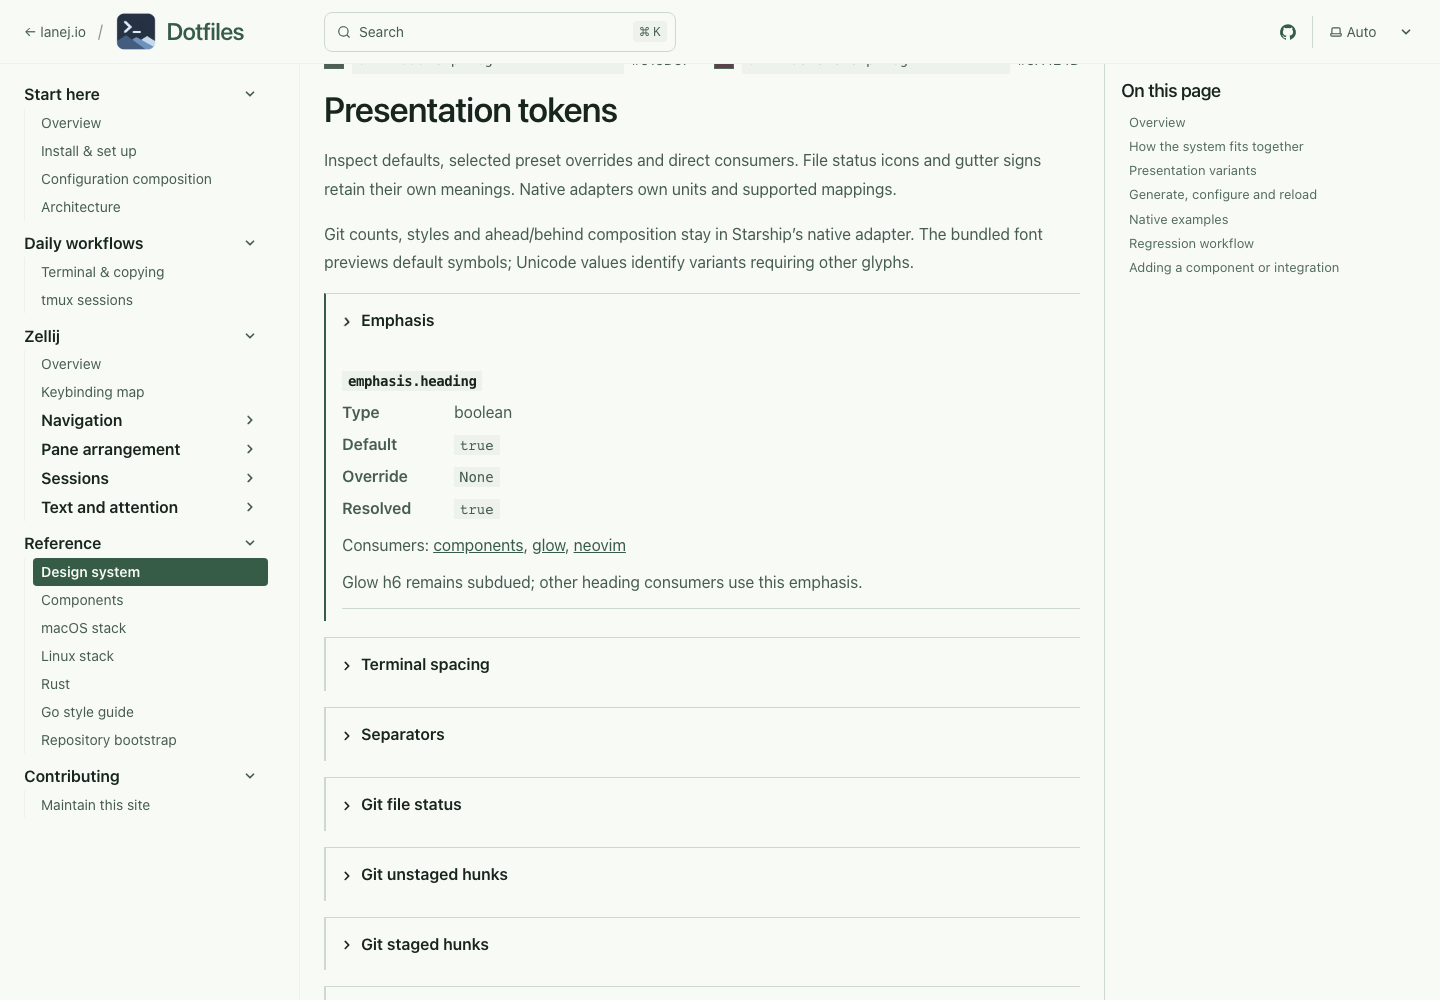
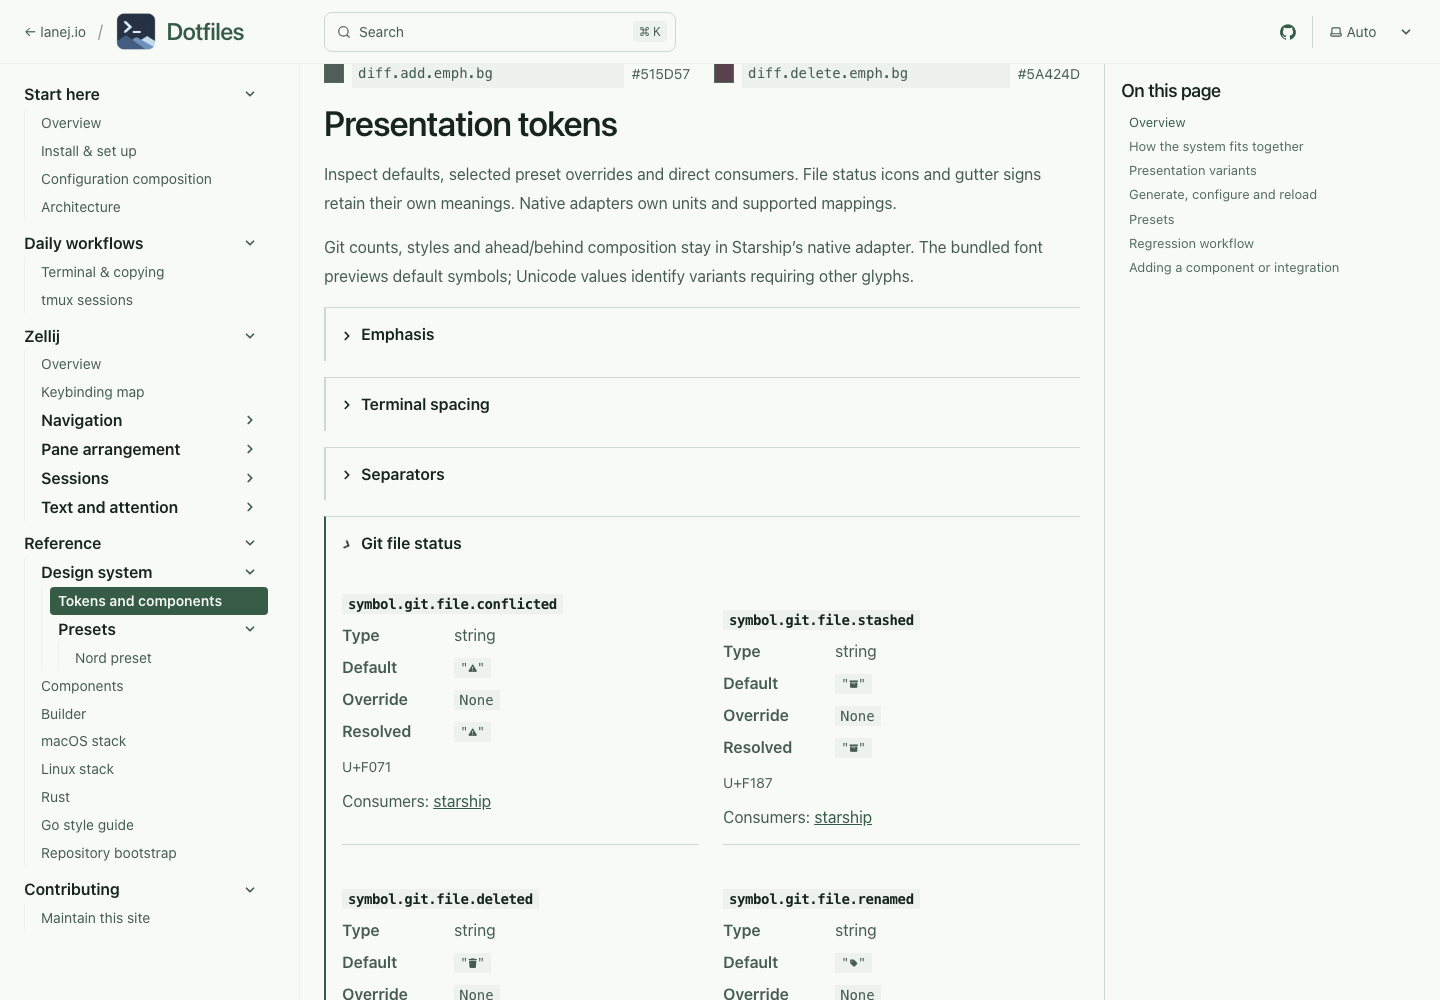
docs(theme): categorize Nord as a preset

diff --git a/website/tests/theme.spec.ts b/website/tests/theme.spec.ts
@@ -23,12 +23,6 @@ test('inspect native theme examples and follow atomic composition', async ({ pag
   await expect(page).toHaveURL(/#component-status$/);
   await expect(page.locator('#component-status').getByRole('link', { name: 'metadata-row', exact: true })).toBeVisible();
   await expect(page.locator('#integration-external-color-owners')).toContainText('interactive audits');
-  const examples = page.locator('main img');
-  await expect(examples).toHaveCount(7);
-  for (const example of await examples.all()) {
-    await example.scrollIntoViewIfNeeded();
-    await expect.poll(() => example.evaluate((image: HTMLImageElement) => image.naturalWidth)).toBeGreaterThan(0);
-  }
   await page.setViewportSize({ width: 390, height: 844 });
   await gitToken.scrollIntoViewIfNeeded();
   expect(await page.evaluate(() => document.documentElement.scrollWidth <= window.innerWidth)).toBe(true);
@@ -37,4 +31,22 @@ test('inspect native theme examples and follow atomic composition', async ({ pag
   const source = page.locator('#component-status .sources a');
   await source.focus();
   await expect(source).toBeFocused();
+});
+
+test('Nord is documented as a preset with its own palette and native captures', async ({ page }) => {
+  await page.goto('./design-system/');
+  await page.getByRole('link', { name: 'Nord preset', exact: true }).first().click();
+  await expect(page).toHaveURL(/\/design-system\/nord\/$/);
+  await expect(page.getByRole('heading', { name: 'Nord preset', exact: true })).toBeVisible();
+  await expect(page.locator('#preset-palette')).toBeVisible();
+  const examples = page.locator('main img');
+  await expect(examples).toHaveCount(7);
+  for (const example of await examples.all()) {
+    await example.scrollIntoViewIfNeeded();
+    await expect.poll(() => example.evaluate((image: HTMLImageElement) => image.naturalWidth)).toBeGreaterThan(0);
+    await expect(example).toHaveAttribute('src', /\/presets\/nord\//);
+  }
+  await page.setViewportSize({ width: 390, height: 844 });
+  await page.locator('#preset-palette').scrollIntoViewIfNeeded();
+  expect(await page.evaluate(() => document.documentElement.scrollWidth <= window.innerWidth)).toBe(true);
 });

diff --git a/scripts/test-theme-native.py b/scripts/test-theme-native.py
@@ -303,7 +303,9 @@ def main():
                 baselines.mkdir(parents=True, exist_ok=True)
                 baseline.write_text(json.dumps(snapshot, indent=2, sort_keys=True) + "\n")
                 if terminal_rows:
-                    (ROOT / f"docs/design-system/{surface}.svg").write_text(svg(surface, observed))
+                    capture = ROOT / "docs/design-system/presets" / preset / f"{surface}.svg"
+                    capture.parent.mkdir(parents=True, exist_ok=True)
+                    capture.write_text(svg(surface, observed))
                 print(f"RECORDED {surface}: inspect baseline and native capture")
             else:
                 expected = json.loads(baseline.read_text())

diff --git a/docs/zellij.md b/docs/zellij.md
@@ -2,7 +2,7 @@
 
 My Zellij setup uses **Ctrl-f** as the prefix, Vim-style navigation, and one top tab bar. Start with the [keybinding map](zellij-keybinds.mdx), or choose a feature below.
 
-The shared canonical Nord theme is documented in the [design-system catalog](design-system.mdx), with current native theme examples.
+The built-in [Nord preset](design-system/nord.mdx) documents the palette and current native theme examples.
 
 ## Start a session
 
